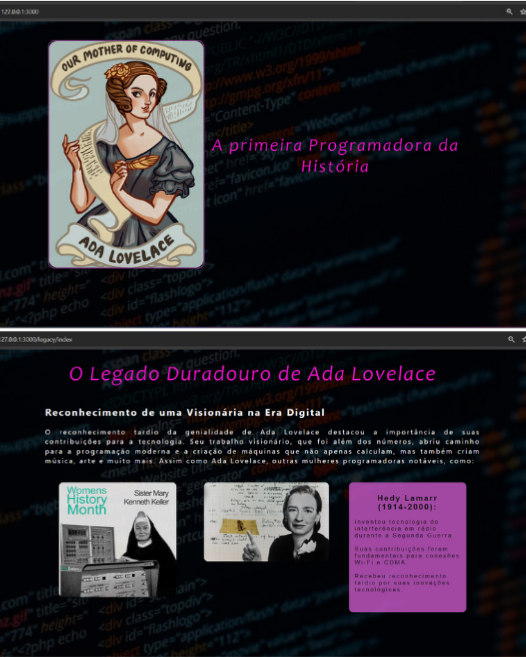
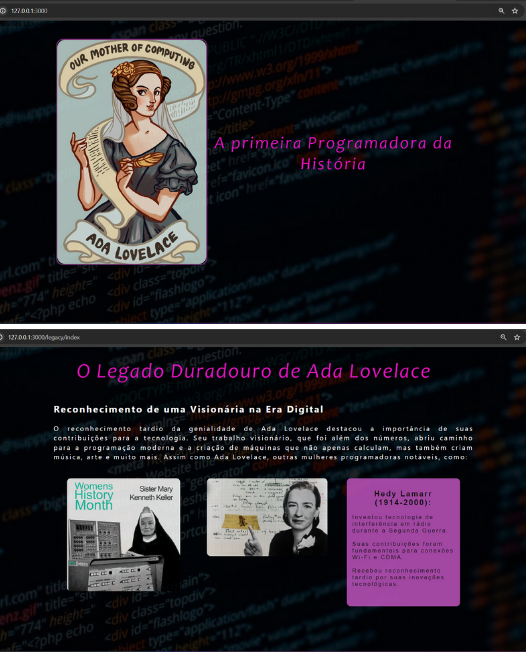
ajuste tela home

diff --git a/app/assets/stylesheets/home/cards.scss b/app/assets/stylesheets/home/cards.scss
@@ -6,7 +6,7 @@
 }
 
 .title {
-    margin-top: -30px;
+    margin-top: -50px;
     padding-left: 40px;
     text-align: left;
     font-size: 90px;
@@ -42,10 +42,23 @@
     }
 }
 
+.text-front {
+    font: 20px 'Trebuchet MS', sans-serif;
+    padding: 10px;
+}
+  
+
 .custom-img {
-    width: 100%; /* Ajusta a largura para preencher o contêiner pai */
-    height: 57vh; /* Define uma altura fixa */
-    object-fit: cover; /* Mantém a proporção e cobre a área */
+    width: 100%;
+    height: 280px; /* Define uma altura fixa */
+    object-fit: contain; /* Mantém a proporção e cobre a área */
+}
+
+.custom-bg-img {
+    width: 100%;
+    height: 280px; /* Define a altura para igualar com a imagem da frente */
+    background-size: cover; /* Garante que a imagem cubra completamente o contêiner */
+    border-radius: 10px; /* Adiciona bordas arredondadas */
 }
 
 .flip-card {
@@ -54,34 +67,24 @@
     height: 100%;
     perspective: 1000px; /* Remove se não quiser profundidade 3D */
     cursor: pointer; /* Adiciona o cursor de ponteiro */
+
+    .flip-card-inner {
+        position: relative;
+        text-align: center;
+        transition: transform 0.5s;
+        transform-style: preserve-3d;
+    }
+
+    .flip-card-front, .flip-card-back {
+        position: absolute;
+        backface-visibility: hidden;
+    }
 }
-  
-.flip-card-inner {
-    position: relative;
-    width: 100%;
-    height: 100%;
-    text-align: center;
-    transition: transform 0.6s;
-    transform-style: preserve-3d;
-}
-  
+
 .flip-card:hover .flip-card-inner {
     transform: rotateY(180deg);
 }
-  
-.flip-card-front, .flip-card-back {
-    position: absolute;
-    width: 100%;
-    height: 100%;
-    backface-visibility: hidden;
-}
-  
+
 .flip-card-back {
     transform: rotateY(180deg);
 }
-
-.text-front {
-    font: 20px 'Trebuchet MS', sans-serif;
-    padding: 5px;
-}
-  
